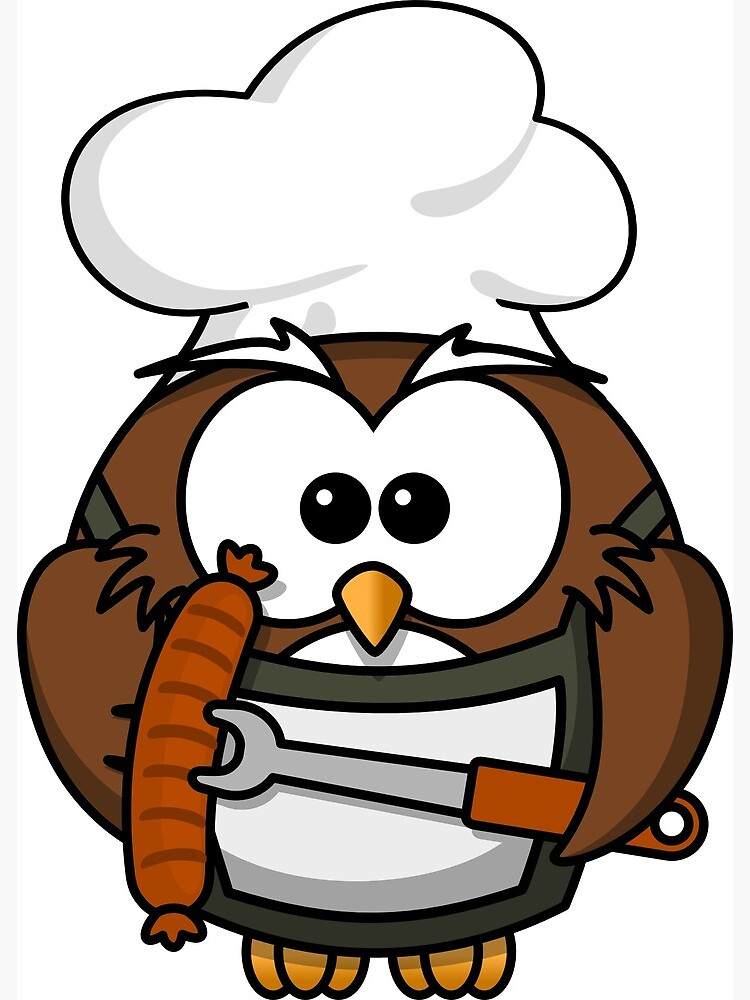
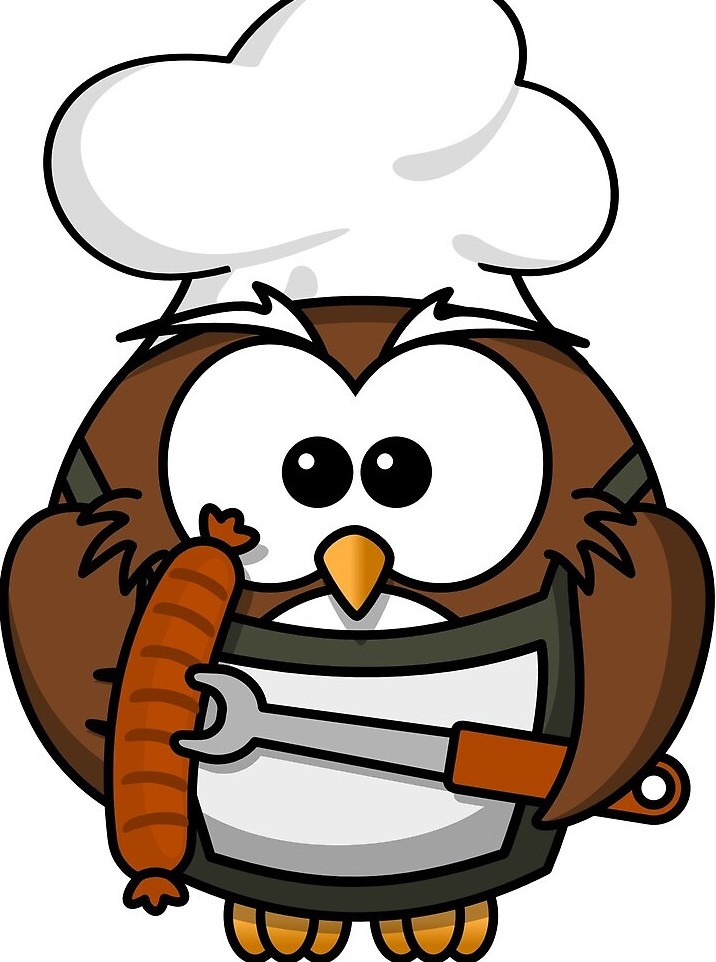
homepage background done

Changed region(s): [[0.0, 0.0, 1.0, 1.0]]

diff --git a/src/screens/Home/home.css b/src/screens/Home/home.css
@@ -1,8 +1,21 @@
 .homebody {
-  background-image: url("/owl.jpg");
-  background-repeat: no-repeat;
-  background-size: 40%;
+  /* background-image: url("/owl.jpg"); */
+  /* /* background-repeat: no-repeat; */
   
+  
+  
+}
+
+.pic {
+  
+  position: fixed;
+  top:0;
+  background-repeat: no-repeat;
+  background-size: 60%;
+  height: 60vh;
+  width: 40vw;
+  z-index:-1;
+  background-image: url("/owl.jpg");
 }
 
 .image {
@@ -42,8 +55,8 @@ h1 {
 }
 
 .createComment {
-  width: 100px;
-  height: 40px;
+  width: 8vw;
+  height: 3vh;
   background-color: rgb(203, 222, 222);
   border-radius: 10px;
 }

diff --git a/src/screens/Home/Home.jsx b/src/screens/Home/Home.jsx
@@ -43,6 +43,7 @@ const Home = () => {
     <div className="homebody"imagesrc="/screens/Home/farm animals.webp" >
       <Hamburger />
       
+      <div className = "pic"></div>
       <div className='Title'>
         <h1>FoodFeed</h1>
         </div>
@@ -50,6 +51,8 @@ const Home = () => {
       {posts.map((post) => displayPosts(post))}
       {isOpen && <Modal currentPost={currentPost} setModalOpen={setIsOpen} />}
     </div>
+
+
   );
 };
 
